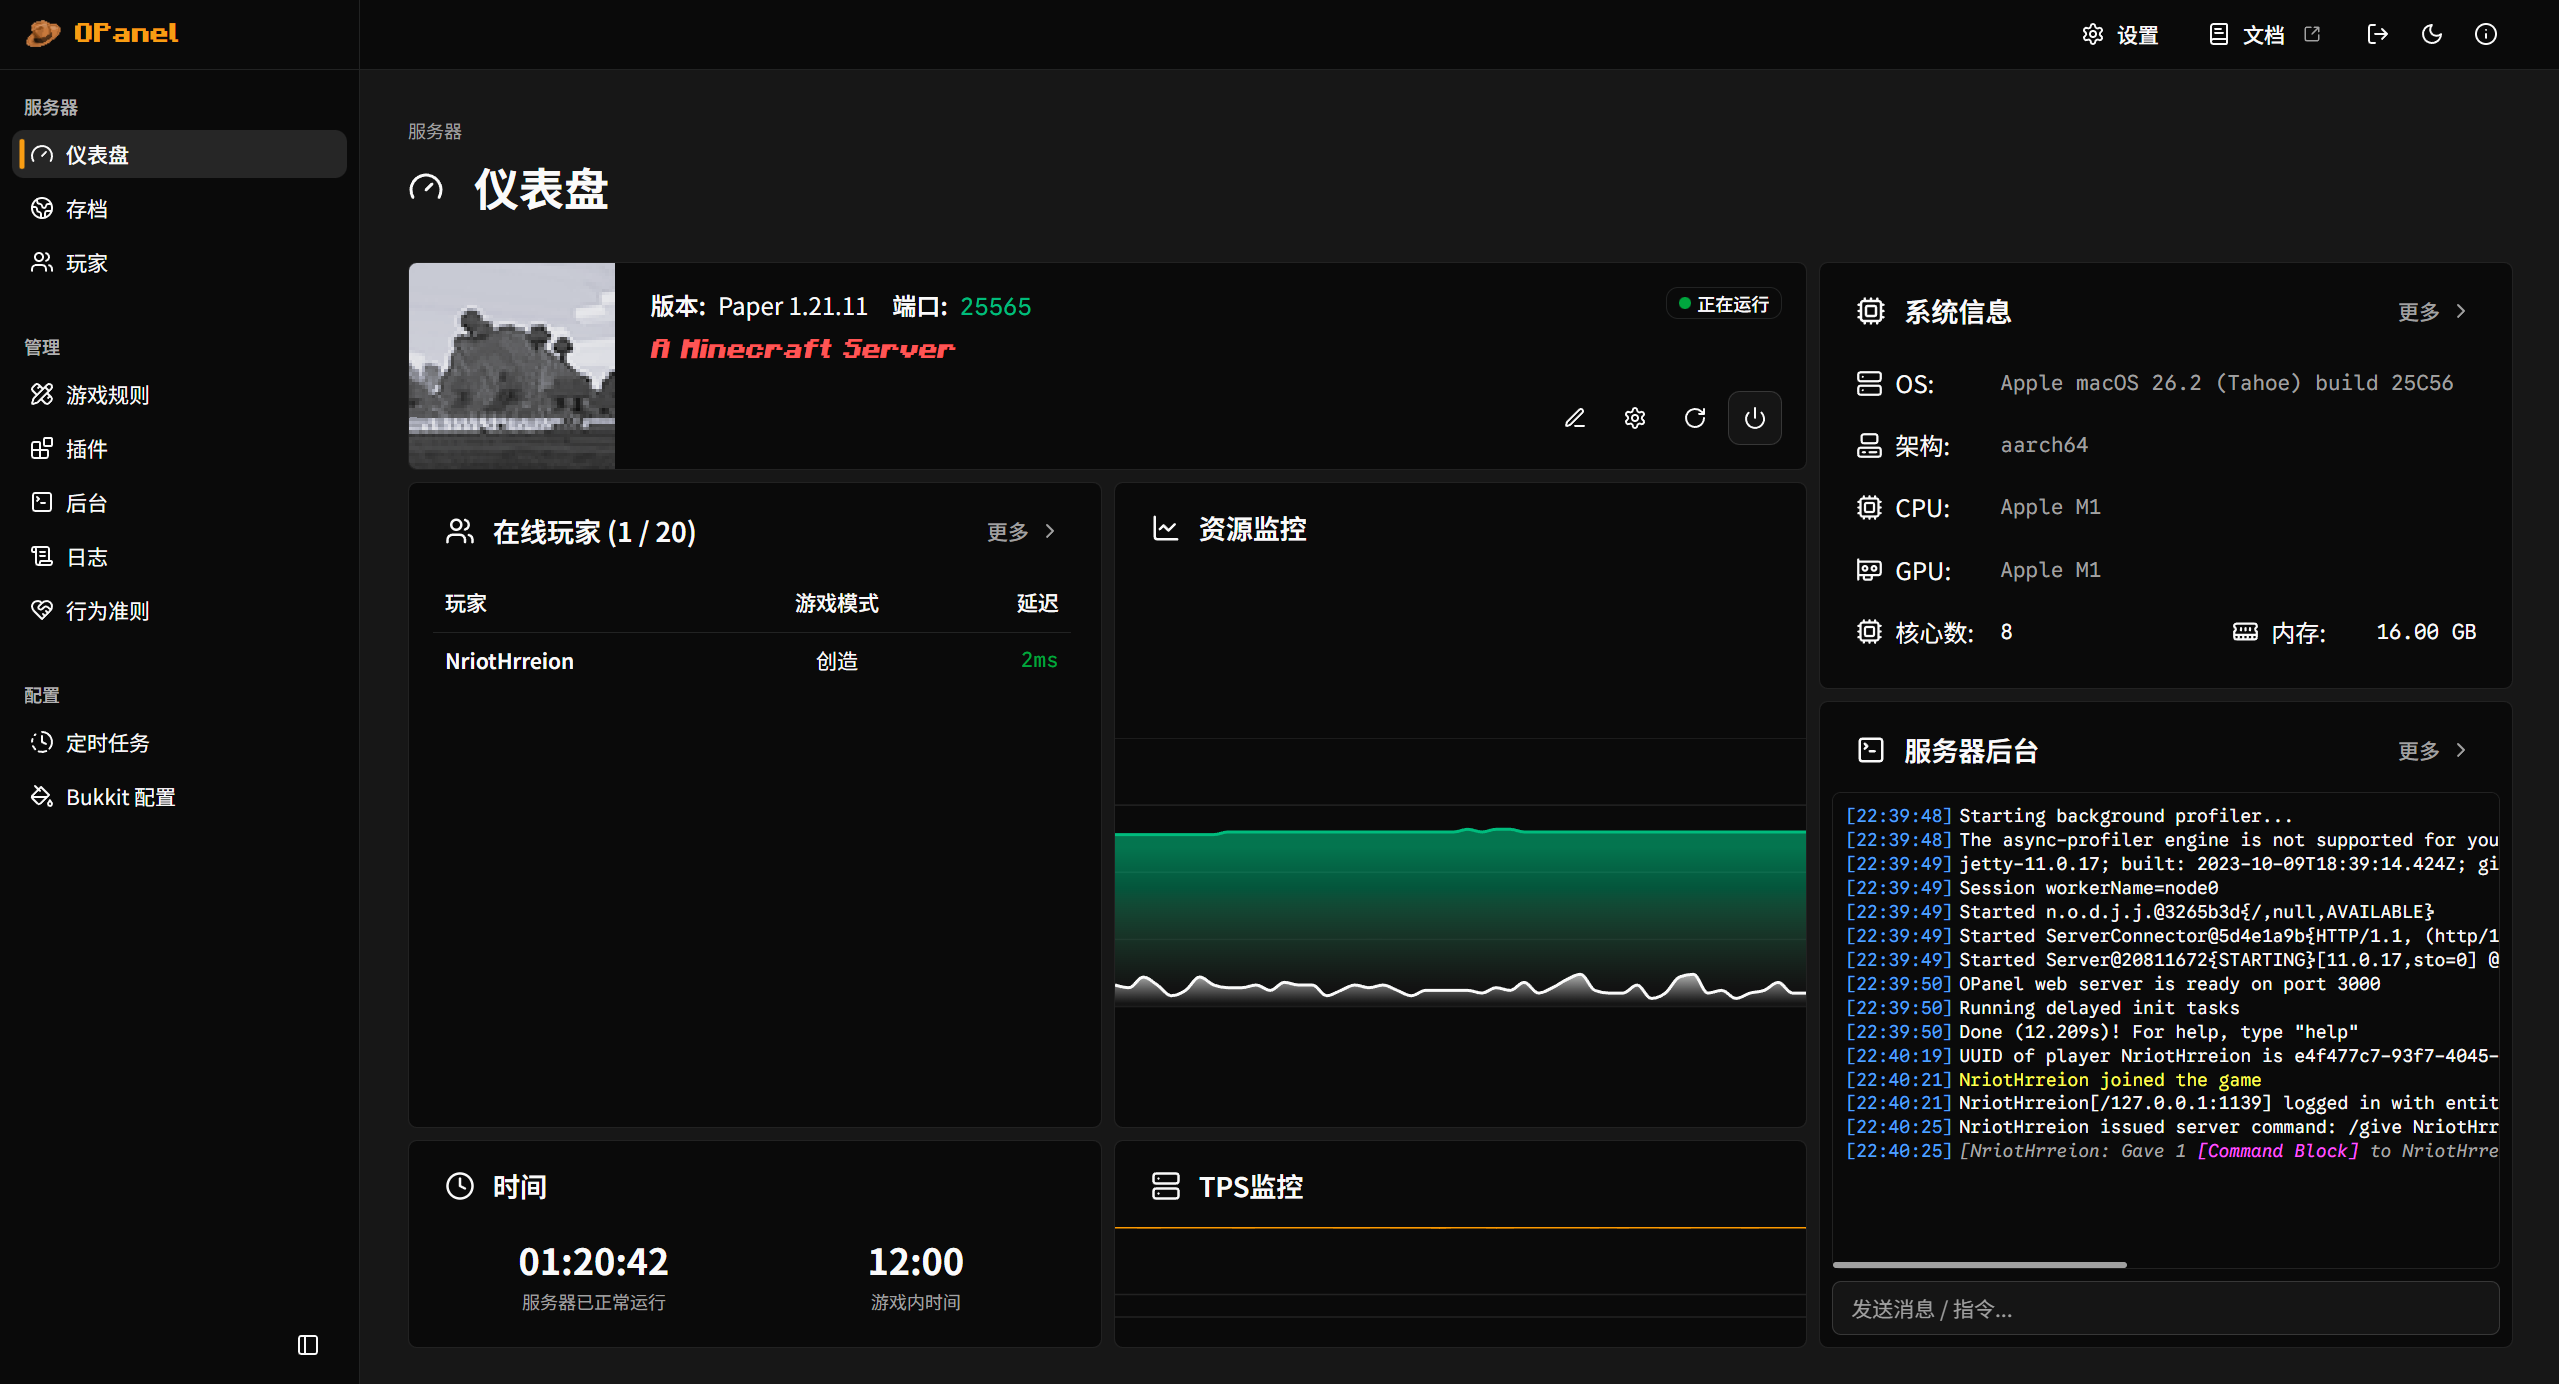
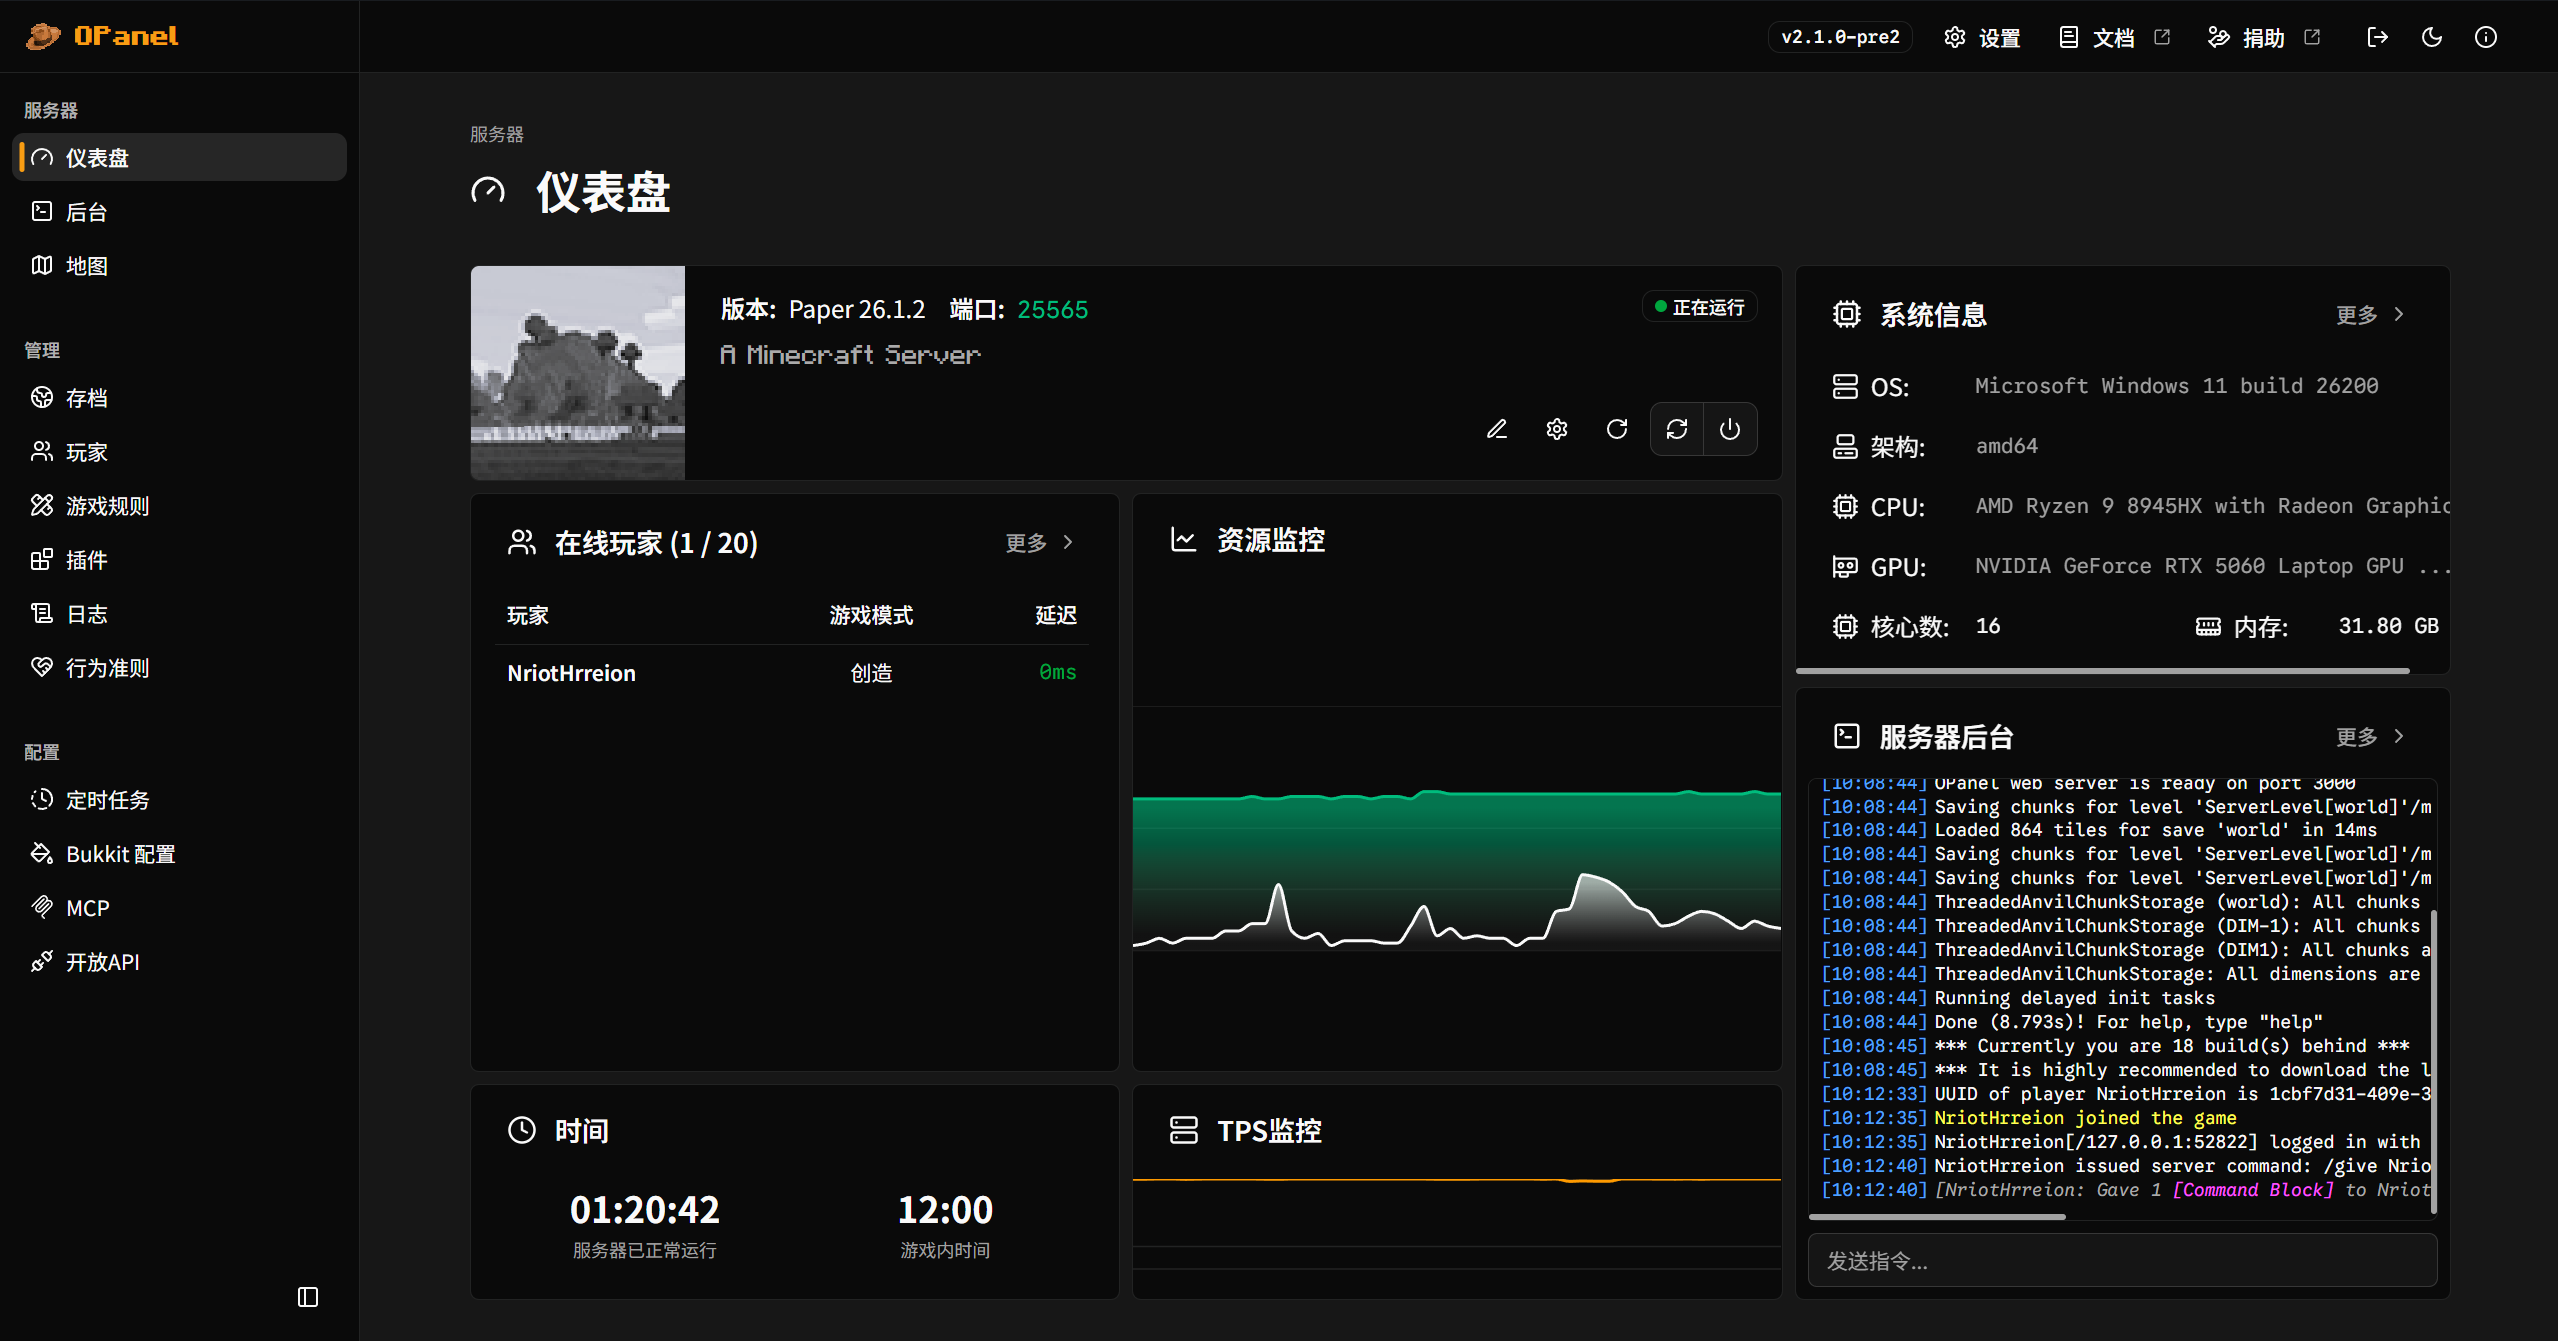
docs: update preview image & add builtin map section in homepage

diff --git a/.vitepress/theme/components/Features.vue b/.vitepress/theme/components/Features.vue
@@ -46,6 +46,16 @@ import VPButton from "vitepress/dist/client/theme-default/components/VPButton.vu
         <p class="section-subtitle">终端日志彩色渲染，支持Tab命令补全、快捷方式和历史记录</p>
       </div>
     </section>
+    <section class="showcase feature-builtin-map">
+      <div class="section-image">
+        <PreviewImage dark="/static/assets/showcases/builtin-map-dark.png" light="/static/assets/showcases/builtin-map-light.png"/>
+      </div>
+      <div class="section-content">
+        <h2 class="section-title">内置<span class="title-highlight">地图</span></h2>
+        <p class="section-subtitle">可在网页面板中查看游戏内实时地图</p>
+        <p class="section-note">* 需在设置中启用该功能</p>
+      </div>
+    </section>
     <section class="showcase feature-mcp">
       <div class="section-image">
         <PreviewImage dark="/static/assets/showcases/mcp.png" light="/static/assets/showcases/mcp.png"/>
@@ -227,6 +237,14 @@ a .link-text-icon {
   text-align: right;
 }
 
+.feature-mcp {
+  flex-direction: row-reverse;
+}
+
+.feature-mcp .section-content {
+  text-align: right;
+}
+
 .section-image {
   flex: 0 0 auto;
   width: 480px;
@@ -263,11 +281,11 @@ a .link-text-icon {
   -webkit-text-fill-color: transparent;
 }
 
-.feature-inventory .section-title .title-highlight, .feature-mcp .section-title .title-highlight {
+.feature-inventory .section-title .title-highlight, .feature-builtin-map .section-title .title-highlight {
   background-image: linear-gradient(90deg, var(--vp-c-bg) 0%, var(--opanel-theme-1) 50%, var(--opanel-theme-3) 100%);
 }
 
-.feature-terminal .section-title .title-highlight {
+.feature-terminal .section-title .title-highlight, .feature-mcp .section-title .title-highlight {
   background-image: linear-gradient(90deg, var(--opanel-theme-3) 0%, var(--opanel-theme-1) 50%, var(--vp-c-bg) 100%);
 }
 
@@ -276,6 +294,15 @@ a .link-text-icon {
   line-height: 1.8;
   color: var(--vp-c-text-2);
   margin: 0;
+}
+
+.section-note {
+  font-size: 9pt;
+  line-height: 1.8;
+  color: var(--vp-c-text-2);
+  font-style: italic;
+  margin: 0;
+  margin-top: 10px;
 }
 
 .feature-openapi {

diff --git a/.vitepress/theme/components/FeaturesEN.vue b/.vitepress/theme/components/FeaturesEN.vue
@@ -46,6 +46,16 @@ import VPButton from "vitepress/dist/client/theme-default/components/VPButton.vu
         <p class="section-subtitle">Colorized terminal logs with Tab command completion, shortcuts, and history</p>
       </div>
     </section>
+    <section class="showcase feature-builtin-map">
+      <div class="section-image">
+        <PreviewImage dark="/static/assets/showcases/builtin-map-dark.png" light="/static/assets/showcases/builtin-map-light.png"/>
+      </div>
+      <div class="section-content">
+        <h2 class="section-title">Builtin<br /><span class="title-highlight">Map</span></h2>
+        <p class="section-subtitle">View the in-game real-time map in the web panel</p>
+        <p class="section-note">* Need to be enabled in settings</p>
+      </div>
+    </section>
     <section class="showcase feature-mcp">
       <div class="section-image">
         <PreviewImage dark="/static/assets/showcases/mcp.png" light="/static/assets/showcases/mcp.png"/>
@@ -227,6 +237,14 @@ a .link-text-icon {
   text-align: right;
 }
 
+.feature-mcp {
+  flex-direction: row-reverse;
+}
+
+.feature-mcp .section-content {
+  text-align: right;
+}
+
 .section-image {
   flex: 0 0 auto;
   width: 480px;
@@ -263,11 +281,11 @@ a .link-text-icon {
   -webkit-text-fill-color: transparent;
 }
 
-.feature-inventory .section-title .title-highlight, .feature-mcp .section-title .title-highlight {
+.feature-inventory .section-title .title-highlight, .feature-builtin-map .section-title .title-highlight {
   background-image: linear-gradient(90deg, var(--vp-c-bg) 0%, var(--opanel-theme-1) 50%, var(--opanel-theme-3) 100%);
 }
 
-.feature-terminal .section-title .title-highlight {
+.feature-terminal .section-title .title-highlight, .feature-mcp .section-title .title-highlight {
   background-image: linear-gradient(90deg, var(--opanel-theme-3) 0%, var(--opanel-theme-1) 50%, var(--vp-c-bg) 100%);
 }
 
@@ -276,6 +294,15 @@ a .link-text-icon {
   line-height: 1.8;
   color: var(--vp-c-text-2);
   margin: 0;
+}
+
+.section-note {
+  font-size: 9pt;
+  line-height: 1.8;
+  color: var(--vp-c-text-2);
+  font-style: italic;
+  margin: 0;
+  margin-top: 10px;
 }
 
 .feature-openapi {